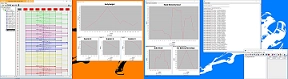
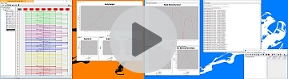
added play button to thumbnails/minor style changes

Changed region(s): [[0.375, 0.0759, 0.625, 0.9367]]

diff --git a/app/assets/stylesheets/home.scss b/app/assets/stylesheets/home.scss
@@ -72,6 +72,10 @@
 	text-decoration: none;
 	color: #110887;
 }
+#zork_git_link{
+	text-decoration: none;
+	color: #2424d9;
+}
 #features{
 	cursor: pointer;
 	color: #110887;
@@ -86,7 +90,6 @@
 	color: white;
 	font-size: 1.2vw;
 }
-
 .readable_text{
 	color: white;
 	font-size: 0.9vw;
@@ -104,6 +107,7 @@
 .project_image{
 	border-radius: 5px;
 }
+
 .vertical-align {
     display: flex;
     align-items: center;
